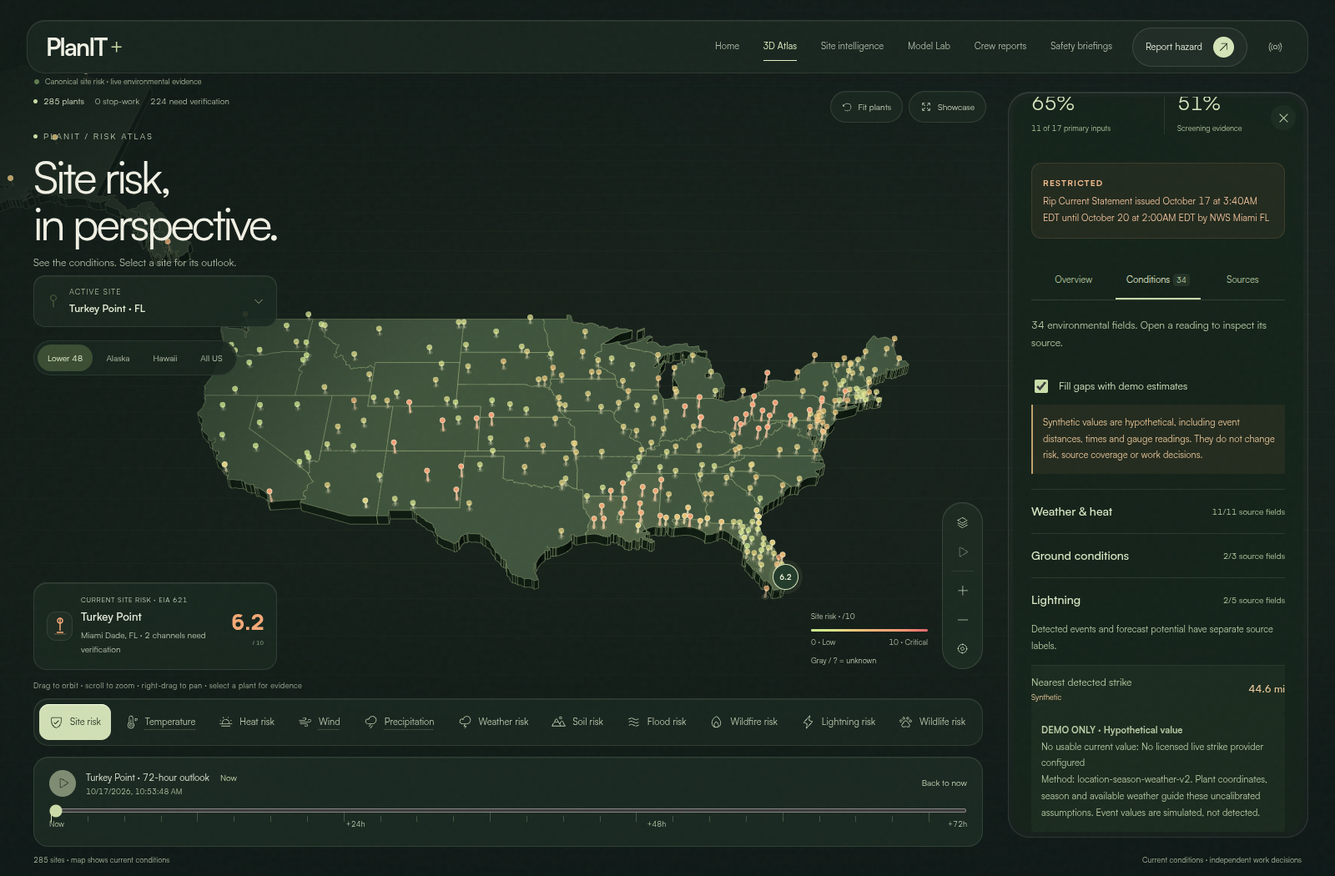
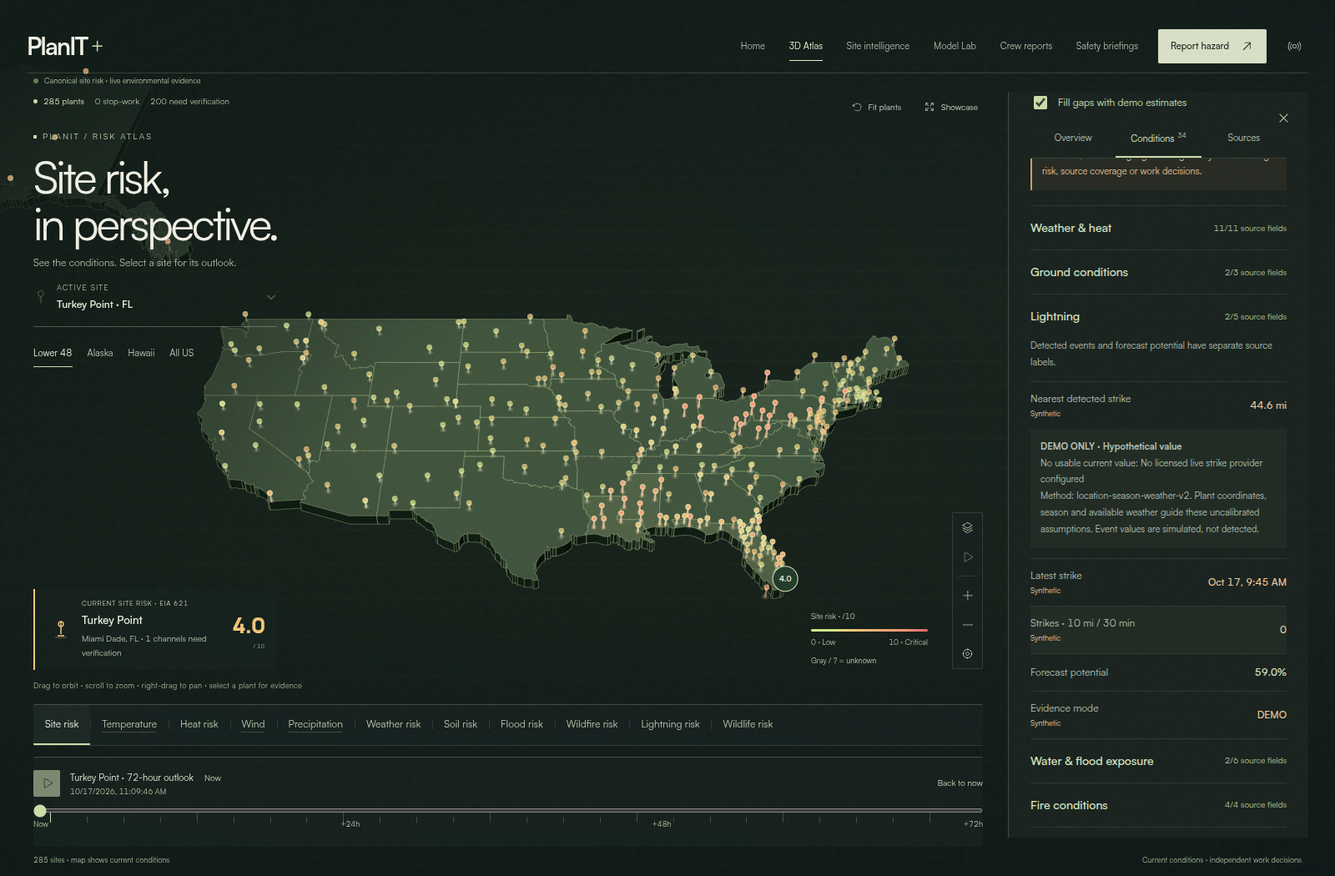
Refine atlas controls with editorial typography and straight edges

diff --git a/src/styles/weather-atlas.css b/src/styles/weather-atlas.css
@@ -1,15 +1,15 @@
 /* Full-bleed atlas. All operational values still come from the backend frame. */
 .app-shell.view-atlas { height: 100dvh; min-height: 100dvh; max-width: none; overflow: hidden; background: #101a16; color: #e9edde; }
 .view-atlas .main-shell, .view-atlas main, .view-atlas .atlas-workspace { position: absolute; inset: 0; height: 100%; width: 100%; padding: 0; margin: 0; overflow: hidden; }
-.app-shell.view-atlas .site-header { position: fixed; top: 24px; left: 32px; right: 32px; height: 64px; margin: 0; padding: 0 22px; gap: 24px; border: 1px solid #e4efd91a; border-radius: 22px; background: #18251fe8; backdrop-filter: blur(18px); box-shadow: inset 0 1px #f4ffe911, 0 12px 44px #0c181319; }
+.app-shell.view-atlas .site-header { position: fixed; top: 24px; left: 32px; right: 32px; height: 64px; margin: 0; padding: 0; gap: 24px; border: 0; border-radius: 2px; background: transparent; backdrop-filter: none; box-shadow: none; border-bottom: 1px solid #d9e3cd33; }
 .view-atlas .site-wordmark { color: #eff1e5; font-size: 29px; letter-spacing: -1.8px; }
 .view-atlas .wordmark-cross { color: #c8d9a5; }
 .view-atlas .site-navigation a { color: #b1bba8; font-size: 11px; }
 .view-atlas .site-navigation a:is(:hover,[aria-current="page"]) { color: #e5f2c5; }
-.view-atlas .header-report { color: #eaf0df; background: #ffffff09; border: 1px solid #e2edd624; padding: 10px 15px; border-radius: 30px; font-size: 11px; }
-.view-atlas .header-report > svg { border-radius: 50%; padding: 4px; width: 25px; height: 25px; background: #d4e4b8; color: #273320; stroke-width: 1.4; }
+.view-atlas .header-report { color: #19221b; background: #d8dfc6; border: 0; padding: 12px 15px; border-radius: 2px; font-size: 11px; font-weight: 500; }
+.view-atlas .header-report > svg { border-radius: 2px; padding: 0; width: 17px; height: 17px; background: transparent; color: currentColor; stroke-width: 1.4; }
 .view-atlas .demo-control, .view-atlas .menu-control { color: #c5d0ba; }
-.view-atlas .site-context { position: absolute; z-index: 9; top: 330px; left: 40px; width: 292px; height: 62px; padding: 0 14px; margin: 0; background: #19281fe8; border: 1px solid #e3edd51a; border-radius: 14px; box-shadow: inset 0 1px #f2ffe610; }
+.view-atlas .site-context { position: absolute; z-index: 9; top: 330px; left: 40px; width: 292px; height: 62px; padding: 0 0 10px; margin: 0; background: transparent; border: 0; border-radius: 2px; box-shadow: none; border-bottom: 1px solid #d9e3cd55; }
 .view-atlas .site-selector { width: 100%; gap: 10px; }
 .view-atlas .site-selector > div { min-width: 0; flex: 1; }
 .view-atlas .site-selector > div > span { color: #a8b69b; font-size: 9px; letter-spacing: 1.2px; }
@@ -29,51 +29,51 @@
 .weather-atlas .scene-heading :is(h1,h4) { font: 400 clamp(38px,3.5vw,54px)/1.04 "Satoshi", sans-serif; max-width: 390px; letter-spacing: -.06em; color: #f0f0e4; margin: 13px 0 10px; }
 .weather-atlas .scene-heading p { color: #aebba5; font-size: 12px; max-width: 320px; }
 .weather-atlas .scene-top-actions { top: 109px; right: calc(var(--inspector-width) + 58px); gap: 7px; }
-.weather-atlas .scene-top-actions button { display: flex; align-items: center; gap: 7px; border-radius: 30px; padding: 10px 13px; color: #cbd6be; background: #19271fe0; border: 1px solid #d4e3c420; min-height: 38px; font-size: 10px; box-shadow: inset 0 1px #e8fbd40a; }
+.weather-atlas .scene-top-actions button { display: flex; align-items: center; gap: 7px; border-radius: 2px; padding: 10px; color: #d1d8ca; background: transparent; border: 0; min-height: 38px; font-size: 10px; box-shadow: none; }
 .weather-atlas button, .view-atlas .site-header button { transition: background-color 280ms cubic-bezier(.22,1,.36,1), color 280ms cubic-bezier(.22,1,.36,1), transform 350ms cubic-bezier(.22,1,.36,1); }
 .weather-atlas button:active, .view-atlas .site-header button:active { transform: scale(.97); }
 .weather-atlas button:focus-visible, .weather-atlas input:focus-visible, .weather-atlas summary:focus-visible, .view-atlas .site-header :focus-visible, .view-atlas .site-selector select:focus-visible { outline: 2px solid #d3e7ad; outline-offset: 4px; }
-.weather-atlas .scene-top-actions button:hover { background: #32422b; color: #f1f5e6; }
+.weather-atlas .scene-top-actions button:hover { background: #d9e3cd0d; color: #f1f5e6; }
 .weather-atlas .scene-bottom { display: none; }
-.atlas-layer-bar { position: absolute; z-index: 6; left: var(--map-gap); right: calc(var(--inspector-width) + 62px); bottom: 156px; display: flex; gap: 4px; padding: 6px; border: 1px solid #d9e9c91c; background: #18261fea; border-radius: 18px; box-shadow: inset 0 1px #f3ffe610, 0 10px 44px #0b171312; overflow-x: auto; scrollbar-width: none; }
+.atlas-layer-bar { position: absolute; z-index: 6; left: var(--map-gap); right: calc(var(--inspector-width) + 62px); bottom: 156px; display: flex; gap: 0; padding: 0; border: 0; background: #15201df2; border-radius: 2px; box-shadow: none; overflow-x: auto; scrollbar-width: none; border-top: 1px solid #d9e3cd40; border-bottom: 1px solid #d9e3cd26; }
 .atlas-layer-bar::-webkit-scrollbar { display: none; }
-.atlas-layer-bar button { display: flex; justify-content: center; align-items: center; gap: 8px; flex: 0 0 auto; background: transparent; color: #bac7ac; white-space: nowrap; padding: 12px; min-height: 43px; border-radius: 12px; font-size: 11px; }
-.atlas-layer-bar button[aria-pressed="true"] { background: #d1dfb5; color: #24311f; box-shadow: inset 0 1px #f5ffe7; }
-.atlas-layer-bar button:hover:not([aria-pressed="true"]) { background: #31412b; color: #edf4e0; }
+.atlas-layer-bar button { display: flex; justify-content: center; align-items: center; gap: 8px; flex: 0 0 auto; background: transparent; color: #bac7ac; white-space: nowrap; padding: 15px 14px; min-height: 43px; border-radius: 0; font-size: 12px; border-bottom: 2px solid transparent; }
+.atlas-layer-bar button[aria-pressed="true"] { background: #d9e3cd09; color: #eef1e5; box-shadow: none; border-bottom-color: #cbdca8; }
+.atlas-layer-bar button:hover:not([aria-pressed="true"]) { background: #d9e3cd09; color: #eef1e5; }
 .atlas-layer-bar button[data-kind="measurement"] span { text-decoration: underline dotted #bccca466; text-underline-offset: 5px; }
-.atlas-regions { position: absolute; z-index: 5; left: var(--map-gap); top: 408px; display: flex; gap: 4px; padding: 4px; border: 1px solid #e3edd515; border-radius: 30px; background: #17261dda; }
-.atlas-regions button { background: transparent; color: #b7c4aa; padding: 8px 12px; min-height: 32px; font-size: 10px; border-radius: 30px; }
-.atlas-regions button[aria-pressed="true"] { color: #e7f2ce; background: #3b4d32; }
+.atlas-regions { position: absolute; z-index: 5; left: var(--map-gap); top: 408px; display: flex; gap: 18px; padding: 0; border: 0; border-radius: 2px; background: transparent; }
+.atlas-regions button { background: transparent; color: #bac3b6; padding: 8px 0; min-height: 32px; font-size: 11px; border-radius: 0; border-bottom: 1px solid transparent; }
+.atlas-regions button[aria-pressed="true"] { color: #eef1e5; background: transparent; border-color: #cbdca8; }
 .atlas-network-status { position: absolute; left: var(--map-gap); top: 115px; z-index: 5; display: flex; align-items: center; gap: 13px; color: #afbea4; font-size: 10px; }
 .atlas-network-status span { white-space: nowrap; }
 .atlas-network-status span:first-child { display: flex; align-items: center; gap: 7px; color: #d5e3c2; }
-.atlas-network-status i { width: 5px; height: 5px; border-radius: 50%; background: #c9dda5; animation: atlas-status 4s cubic-bezier(.22,1,.36,1) infinite; }
-.weather-atlas .scene-controls { right: calc(var(--inspector-width) + 62px); bottom: 248px; padding: 6px; border-radius: 24px; border: 1px solid #e4efdb21; background: #1b2a21eb; box-shadow: inset 0 1px #f5ffed0d; }
-.weather-atlas .scene-controls button { width: 35px; height: 35px; border-radius: 50%; color: #c2d0b3; }
+.atlas-network-status i { border-radius: 50%; width: 5px; height: 5px; background: #c9dda5; animation: atlas-status 4s cubic-bezier(.22,1,.36,1) infinite; }
+.weather-atlas .scene-controls { right: calc(var(--inspector-width) + 62px); bottom: 248px; padding: 0; border-radius: 2px; border: 1px solid #d9e3cd26; background: #15201df2; box-shadow: none; }
+.weather-atlas .scene-controls button { width: 35px; height: 35px; border-radius: 0; color: #c2d0b3; }
 .weather-atlas .scene-controls button:hover, .weather-atlas .scene-controls button[aria-pressed="true"] { background: #38492e; color: #edfad7; }
 .weather-atlas .scene-controls > span { background: #d8e9c61a; margin: 5px 4px; }
-.weather-atlas .scene-site-card { left: var(--map-gap); bottom: 247px; width: 292px; border-radius: 16px; border: 1px solid #e2edd51c; background: #19281fd9; padding: 15px; box-shadow: inset 0 1px #f5ffe714; cursor: pointer; pointer-events: auto; backdrop-filter: none; }
+.weather-atlas .scene-site-card { left: var(--map-gap); bottom: 247px; width: 292px; border-radius: 2px; border: 0; background: #15201de0; padding: 12px 15px; box-shadow: none; cursor: pointer; pointer-events: auto; backdrop-filter: none; border-left: 2px solid var(--active-risk); }
 .weather-atlas .scene-site-card:hover { background: #24352a; }
-.weather-atlas .scene-site-icon { border: 1px solid #e8f1dc18; background: #d4e6b508; border-radius: 11px; }
+.weather-atlas .scene-site-icon { border: 0; background: transparent; border-radius: 2px; }
 .weather-atlas .scene-site-card strong { font-size: 13px; color: #e8eedc; }
 .weather-atlas .scene-site-card p { font-size: 10px; color: #b6c2ac; line-height: 1.7; max-height: none; }
 .weather-atlas .scene-site-card > div > span { font-size: 8px; letter-spacing: .7px; color: #c3d0b6; }
 .weather-atlas .scene-site-score { color: var(--active-risk); font-size: 27px; }
 .weather-atlas .scene-disclosure { bottom: 222px; left: var(--map-gap); font: 9px "Satoshi", sans-serif; color: #a2b198; }
-.weather-atlas .scene-warning { top: 400px; left: var(--map-gap); right: calc(var(--inspector-width) + 62px); z-index: 8; color: #eed7b1; background: #303b27; border: 0; border-radius: 10px; font-size: 11px; }
-.weather-atlas .site-beacon { width: 7px; height: 7px; border: 1px solid #edf6d699; color: #ebf5d8; background: var(--beacon-color); font-size: 0; box-shadow: none; opacity: .95; }
+.weather-atlas .scene-warning { top: 400px; left: var(--map-gap); right: calc(var(--inspector-width) + 62px); z-index: 8; color: #eed7b1; background: #303b27; border: 0; border-radius: 2px; font-size: 11px; }
+.weather-atlas .site-beacon { border-radius: 50%; width: 7px; height: 7px; border: 1px solid #edf6d699; color: #ebf5d8; background: var(--beacon-color); font-size: 0; box-shadow: none; opacity: .95; }
 .weather-atlas .site-beacon::before { content: ""; position: absolute; inset: -8px; }
 .weather-atlas .site-beacon.is-unknown { background: #5a6c62; border: 1px dashed #b4c2b8; opacity: .7; }
 .weather-atlas .site-beacon.has-low-confidence { border-style: dashed; opacity: .75; }
-.weather-atlas .site-beacon:is(.is-selected,:hover,:focus-visible) { width: 31px; height: 31px; border: 1px solid #d8e6bc; font-size: 9px; background: #223b2a; color: #f0f5df; box-shadow: 0 0 0 5px #d4e8aa12; opacity: 1; }
+.weather-atlas .site-beacon:is(.is-selected,:hover,:focus-visible) { width: 31px; height: 31px; border: 1px solid #d8e6bc; font-size: 9px; background: #223b2a; color: #f0f5df; box-shadow: none; opacity: 1; }
 .atlas-scale { position: absolute; z-index: 5; right: calc(var(--inspector-width) + 128px); bottom: 251px; width: 140px; pointer-events: none; }
 .atlas-scale > span, .atlas-scale small { font-size: 9px; color: #bac7ac; }
-.atlas-scale i { display: block; height: 3px; border-radius: 4px; margin: 8px 0 7px; background: linear-gradient(90deg,#c9ee8d,#dce18b,#f0c477,#f4ab76,#ff9676,#df656c); }
+.atlas-scale i { display: block; height: 3px; border-radius: 2px; margin: 8px 0 7px; background: linear-gradient(90deg,#c9ee8d,#dce18b,#f0c477,#f4ab76,#ff9676,#df656c); }
 .atlas-scale i[data-layer="temperature"] { background: linear-gradient(90deg,#739bb8,#a9c7bc,#e8d09b,#d98c68,#bd655c); }
 .atlas-scale > div { display: flex; justify-content: space-between; color: #b0bfa3; font-size: 9px; margin-bottom: 5px; }
-.atlas-timeline, .atlas-timeline-prompt { position: absolute; z-index: 6; left: var(--map-gap); right: calc(var(--inspector-width) + 62px); bottom: 35px; height: 108px; padding: 14px 18px 12px; border: 1px solid #e0efd01e; border-radius: 18px; background: #1a2921ee; box-shadow: inset 0 1px #f1ffe20d, 0 10px 36px #0d19140f; }
+.atlas-timeline, .atlas-timeline-prompt { position: absolute; z-index: 6; left: var(--map-gap); right: calc(var(--inspector-width) + 62px); bottom: 35px; height: 108px; padding: 14px 0 12px; border: 0; border-radius: 2px; background: #15201de8; box-shadow: none; border-top: 1px solid #d9e3cd40; }
 .atlas-time-heading { display: flex; align-items: center; gap: 12px; }
-.atlas-time-heading > button:first-child { display: grid; place-items: center; width: 32px; height: 32px; flex-shrink: 0; border-radius: 50%; background: #d1dfb5; color: #273620; }
+.atlas-time-heading > button:first-child { display: grid; place-items: center; width: 32px; height: 32px; flex-shrink: 0; border-radius: 2px; background: #d1dfb5; color: #273620; }
 .atlas-time-heading > div { flex: 1; min-width: 0; }
 .atlas-time-heading span { color: #e5ecd8; font-size: 11px; }
 .atlas-time-heading b { font-size: 10px; color: #cadbad; margin-left: 10px; font-weight: 400; }
@@ -86,64 +86,64 @@
 .atlas-timeline input { position: relative; display: block; width: 100%; height: 5px; margin: 14px 0 8px; accent-color: #cbdca8; cursor: pointer; }
 .atlas-time-ticks { display: flex; justify-content: space-between; color: #b5c4a6; font-size: 9px; }
 .atlas-coverage { position: absolute; z-index: 5; pointer-events: none; bottom: 13px; left: var(--map-gap); right: 40px; display: flex; justify-content: space-between; color: #a6b79b; font-size: 9px; gap: 16px; }
-/* Nested shell provides a physical edge; only the inner evidence surface scrolls. */
-.atlas-inspector-shell { position: absolute; z-index: 8; right: 32px; top: 110px; bottom: 46px; width: var(--inspector-width); padding: 5px; border: 1px solid #e5efd91c; border-radius: 26px; background: #e1efc908; box-shadow: inset 0 1px #f0ffdc18; transition: transform 600ms cubic-bezier(.22,1,.36,1), opacity 450ms cubic-bezier(.22,1,.36,1); }
+/* A solid evidence sheet stays legible above the scene; only its contents scroll. */
+.atlas-inspector-shell { position: absolute; z-index: 8; right: 32px; top: 110px; bottom: 46px; width: var(--inspector-width); padding: 0; border: 0; border-radius: 0; background: #19221e; box-shadow: none; transition: transform 600ms cubic-bezier(.22,1,.36,1), opacity 450ms cubic-bezier(.22,1,.36,1); border-left: 1px solid #d9e3cd33; }
 .atlas-inspector-shell[data-open="false"] { transform: translateX(calc(100% + 50px)); opacity: 0; pointer-events: none; }
-.atlas-inspector { position: relative; height: 100%; padding: 24px 22px; overflow: auto; overscroll-behavior: contain; scrollbar-width: thin; scrollbar-color: #53654b transparent; border-radius: 21px; background: #142219f5; color: #dce6cd; scroll-padding-block: 72px; }
+.atlas-inspector { position: relative; height: 100%; padding: 24px 26px; overflow: auto; overscroll-behavior: contain; scrollbar-width: thin; scrollbar-color: #53654b transparent; border-radius: 0; background: #19221e; color: #dce6cd; scroll-padding-block: 72px; }
 .atlas-inspector button, .atlas-inspector summary, .atlas-inspector input { scroll-margin-block: 72px; }
-.atlas-inspector-close { z-index: 5; position: absolute; top: 15px; right: 14px; width: 30px; height: 30px; display: grid; place-items: center; border-radius: 50%; background: #e9f5d80a; color: #b6c9a5; }
+.atlas-inspector-close { z-index: 5; position: absolute; top: 15px; right: 14px; width: 32px; height: 32px; display: grid; place-items: center; border-radius: 0; background: #19221e; color: #b6c9a5; }
 .atlas-inspector-close:hover { background: #d4e4b31a; }
-.atlas-inspector-open { position: absolute; top: 110px; right: 32px; z-index: 8; display: flex; align-items: center; gap: 10px; background: #22341fea; border: 1px solid #d2e5b32b; border-radius: 30px; padding: 13px 18px; font-size: 12px; color: #e3efce; }
+.atlas-inspector-open { position: absolute; top: 110px; right: 32px; z-index: 8; display: flex; align-items: center; gap: 10px; background: #19221e; border: 0; border-radius: 0; padding: 13px 18px; font-size: 12px; color: #e3efce; border-bottom: 1px solid #cbdca8; }
 .atlas-inspector-open[hidden] { display: none; }
 .atlas-inspector-top { display: flex; justify-content: space-between; align-items: center; gap: 10px; padding-right: 29px; }
 .atlas-inspector-top > span { color: #a8bb96; font-size: 9px; letter-spacing: 1.2px; }
 .atlas-inspector-top > button { display: flex; align-items: center; gap: 6px; min-height: 26px; background: transparent; color: #c4d4b0; font-size: 10px; }
 .atlas-search { position: relative; margin: 23px 0; }
-.atlas-search > svg { position: absolute; top: 33px; left: 12px; color: #c6d7b3; pointer-events: none; }
-.atlas-search input { width: 100%; padding: 13px 10px 13px 36px; color: #e6efda; background: #b0ca8c09; border: 1px solid #deefc71c; border-radius: 13px; font: 11px "Satoshi", sans-serif; }
+.atlas-search > svg { position: absolute; top: 33px; left: 0; color: #c6d7b3; pointer-events: none; }
+.atlas-search input { width: 100%; padding: 13px 0 13px 25px; color: #e6efda; background: transparent; border: 0; border-radius: 0; font: 11px "Satoshi", sans-serif; border-bottom: 1px solid #d9e3cd40; }
 .atlas-search input::placeholder { color: #a9bb99; }
 .atlas-search .sr-only { position: absolute; width: 1px; height: 1px; padding: 0; margin: -1px; overflow: hidden; clip: rect(0,0,0,0); white-space: nowrap; border: 0; }
-.atlas-search-results { position: absolute; left: 0; right: 0; top: calc(100% + 4px); z-index: 10; padding: 5px; background: #263b20; border: 1px solid #ccdfb333; border-radius: 12px; box-shadow: 0 12px 32px #10201026; }
-.atlas-search-results button { display: block; width: 100%; text-align: left; padding: 12px; font-size: 12px; background: transparent; color: #e4edda; border-radius: 8px; }
+.atlas-search-results { position: absolute; left: 0; right: 0; top: calc(100% + 4px); z-index: 10; padding: 5px; background: #26312a; border: 1px solid #d9e3cd33; border-radius: 2px; box-shadow: none; }
+.atlas-search-results button { display: block; width: 100%; text-align: left; padding: 12px; font-size: 12px; background: transparent; color: #e4edda; border-radius: 2px; }
 .atlas-search-results button:hover { background: #465b33; }
 .atlas-site-id { font-size: 9px; letter-spacing: 1.3px; color: #adbf9a; margin-bottom: 9px; }
 .atlas-inspector .atlas-location-title { font: 400 29px/1.08 "Satoshi", sans-serif; letter-spacing: -1.1px; color: #edf1e2; margin: 0; text-wrap: pretty; }
-.atlas-coordinate { font-size: 10px; color: #b4c5a2; line-height: 1.6; margin-top: 9px; }
+.atlas-coordinate { font-size: 10px; color: #b5bfb3; line-height: 1.6; margin-top: 9px; }
 .atlas-risk-hero { display: flex; justify-content: space-between; align-items: center; margin: 24px 0 16px; }
-.atlas-risk-hero > div > span { font-size: 10px; color: #b0c19e; }
+.atlas-risk-hero > div > span { font-size: 10px; color: #b5bfb3; }
 .atlas-risk-hero strong { display: block; font: 400 58px/1.16 "Satoshi", sans-serif; letter-spacing: -3px; color: #e5efcf; margin-top: 5px; }
 .atlas-risk-hero strong small { font-size: 17px; font-weight: 400; letter-spacing: -.3px; color: #abbe97; }
-.atlas-risk-mark { width: 47px; height: 47px; display: grid; place-items: center; border-radius: 50%; border: 1px solid; outline: 1px solid #deedc51c; outline-offset: 7px; margin-right: 8px; }
-.atlas-risk-mark span { width: 9px; height: 9px; border-radius: 50%; }
+.atlas-risk-mark { width: 7px; height: 54px; display: grid; place-items: center; border-radius: 0; border: 0; outline: 0; outline-offset: 7px; margin-right: 0; background: currentColor; }
+.atlas-risk-mark span { width: 100%; height: 100%; border-radius: 0; }
 .atlas-layer-reading { display: flex; justify-content: space-between; align-items: center; gap: 12px; padding: 12px 0; border-top: 1px solid #dceac21a; }
 .atlas-layer-reading > span, .atlas-layer-reading p { font-size: 10px; color: #b1c29c; }
 .atlas-layer-reading strong { font-size: 17px; font-weight: 400; color: #e0ecca; white-space: nowrap; }
 .atlas-layer-reading small { margin-left: 3px; font-size: 10px; color: #b8c8a3; }
 .atlas-metrics { display: grid; grid-template-columns: 1fr 1fr; gap: 14px; padding: 17px 0 20px; border-top: 1px solid #deedc51c; }
 .atlas-metrics > div + div { border-left: 1px solid #deedc51c; padding-left: 15px; }
-.atlas-metrics dt { font-size: 10px; color: #b4c6a0; }
+.atlas-metrics dt { font-size: 10px; color: #b5bfb3; }
 .atlas-metrics dd { font-size: 24px; letter-spacing: -.7px; color: #dceac2; margin: 4px 0; }
-.atlas-metrics small { font-size: 9px; line-height: 1.6; color: #aec19b; }
-.atlas-detail-views { position: sticky; top: 0; z-index: 4; display: flex; padding: 10px 0 0; background: #142219; border-bottom: 1px solid #deedc525; }
-.atlas-detail-views button { flex: 1; min-height: 45px; font-size: 11px; background: transparent; color: #b6c8a1; border-bottom: 2px solid transparent; }
+.atlas-metrics small { font-size: 9px; line-height: 1.6; color: #aab6aa; }
+.atlas-detail-views { position: sticky; top: 0; z-index: 4; display: flex; padding: 10px 0 0; background: #19221e; border-bottom: 1px solid #deedc525; }
+.atlas-detail-views button { flex: 1; min-height: 45px; font-size: 11px; background: transparent; color: #bfc8bc; border-bottom: 2px solid transparent; }
 .atlas-detail-views button[aria-pressed="true"] { border-color: #cadaab; color: #e4efcf; }
 .atlas-detail-views button:hover { color: #fffced; background: #d6e9b709; }
-.atlas-detail-views small { font-size: 9px; margin-left: 4px; padding: 2px 4px; border-radius: 4px; color: #c3d5ab; background: #bfd5a317; }
+.atlas-detail-views small { font-size: 8px; margin-left: 4px; padding: 0; border-radius: 2px; color: #c3d5ab; background: transparent; vertical-align: super; }
 .atlas-detail-content[hidden] { display: none; }
 .atlas-drivers { padding: 19px 0 17px; }
 .atlas-section-label { font-size: 9px; letter-spacing: .9px; color: #acbe98; }
 .atlas-drivers strong { font-size: 21px; font-weight: 400; color: #e2edcf; letter-spacing: -.6px; }
 .atlas-drivers p + p { font-size: 11px; line-height: 1.8; color: #afc199; margin-top: 6px; }
 .atlas-channels details { border-top: 1px solid #dceac21c; }
-.atlas-channels summary { display: grid; grid-template-columns: 65px minmax(24px,1fr) 48px 12px; gap: 10px; align-items: center; min-height: 44px; list-style: none; cursor: pointer; font-size: 11px; color: #c8d5b6; }
+.atlas-channels summary { display: grid; grid-template-columns: 65px minmax(24px,1fr) 48px 12px; gap: 10px; align-items: center; min-height: 44px; list-style: none; cursor: pointer; font-size: 11px; color: #d6ddce; }
 .atlas-channels summary::-webkit-details-marker { display: none; }
 .atlas-channels summary strong { text-align: right; font-weight: 400; font-size: 11px; }
 .atlas-channels details[open] summary > svg { transform: rotate(90deg); }
-.atlas-channel-meter { display: block; height: 3px; border-radius: 3px; background: #d3e4b51a; overflow: hidden; }
-.atlas-channel-meter i { display: block; height: 100%; border-radius: 3px; }
+.atlas-channel-meter { display: block; height: 3px; border-radius: 2px; background: #d3e4b51a; overflow: hidden; }
+.atlas-channel-meter i { display: block; height: 100%; border-radius: 2px; }
 .atlas-channel-evidence { padding-bottom: 12px; }
-.atlas-channel-evidence p { font-size: 11px; line-height: 1.8; color: #b4c89f; overflow-wrap: anywhere; }
-.atlas-overrides { padding: 13px; margin: 4px 0 18px; border: 1px solid #dca77c25; background: #b56f4517; color: #f0c29c; border-radius: 12px; }
+.atlas-channel-evidence p { font-size: 11px; line-height: 1.8; color: #b6c1b5; overflow-wrap: anywhere; }
+.atlas-overrides { padding: 10px 13px; margin: 4px 0 18px; border: 0; background: #b56f450d; color: #f0c29c; border-radius: 2px; border-left: 2px solid #dca77c; }
 .atlas-overrides strong { font-size: 10px; letter-spacing: 1.2px; color: #f3bb8d; }
 .atlas-overrides p { font-size: 11px; line-height: 1.8; margin-top: 5px; }
 .atlas-overrides time { font-size: 17px; font-weight: 500; }
@@ -151,10 +151,10 @@
 .atlas-work-decisions h3, .atlas-section-heading h3 { font-size: 13px; font-weight: 500; color: #d7e5c1; }
 .atlas-tasks { margin-top: 9px; }
 .atlas-tasks > div { display: flex; align-items: center; justify-content: space-between; gap: 8px; border-bottom: 1px solid #d8e8be1a; min-height: 44px; font-size: 11px; color: #bbcda7; }
-.atlas-tasks dd { font-size: 8px; padding: 5px 7px; border-radius: 5px; margin: 0; background: #d1e3b217; color: #d6e1c5; }
-.atlas-tasks dd[data-state="HOLD"] { color: #f5b69a; background: #dc775723; }
-.atlas-tasks dd[data-state="RESTRICTED"] { color: #f3d19a; background: #cc9c4923; }
-.atlas-tasks dd[data-state="AVAILABLE"] { color: #d3e8ad; background: #a3be7923; }
+.atlas-tasks dd { font-size: 9px; padding: 5px 0; border-radius: 2px; margin: 0; background: transparent; color: #d6e1c5; }
+.atlas-tasks dd[data-state="HOLD"] { color: #f5b69a; background: transparent; }
+.atlas-tasks dd[data-state="RESTRICTED"] { color: #f3d19a; background: transparent; }
+.atlas-tasks dd[data-state="AVAILABLE"] { color: #d3e8ad; background: transparent; }
 .atlas-section-heading { display: flex; align-items: center; justify-content: space-between; color: #bbcea3; padding-bottom: 9px; }
 .atlas-priorities button { width: 100%; display: flex; align-items: center; justify-content: space-between; gap: 12px; text-align: left; border-top: 1px solid #dcecc21c; padding: 12px 0; background: transparent; color: #d6e5be; font-size: 11px; }
 .atlas-priorities button:hover { color: #f3f9e8; background: #d0e7b30a; }
@@ -164,11 +164,11 @@
 .atlas-error, .atlas-limitation { font-size: 11px; line-height: 1.8; margin-top: 12px; color: #ebc28d; }
 /* Scoped evidence colors preserve the paper treatment in Site intelligence. */
 .weather-atlas :is(.observation-details,.source-details) { color: #cfddba; }
-.weather-atlas :is(.observation-intro,.observation-note,.observation-provenance p,.source-details dt,.source-models > p,.source-boundary) { color: #b6c9a3; }
+.weather-atlas :is(.observation-intro,.observation-note,.observation-provenance p,.source-details dt,.source-models > p,.source-boundary) { color: #b6c1b5; }
 .weather-atlas :is(.observation-group,.observation-field,.source-provider,.source-models,.source-site,.source-boundary) { border-color: #deedc51c; }
 .weather-atlas .observation-group > summary, .weather-atlas .source-details h3 { color: #dae9c5; }
 .weather-atlas .observation-group > summary > small, .weather-atlas .source-provider summary small { color: #b4c99f; }
-.weather-atlas .observation-field > summary > span { color: #b8cca3; }
+.weather-atlas .observation-field > summary > span { color: #b6c1b5; }
 .weather-atlas .observation-field > summary > strong { color: #e1eecb; }
 .weather-atlas .observation-field > summary:hover, .weather-atlas .observation-provenance { background: #c5e4a50a; }
 .weather-atlas .observation-field[data-known="false"] > summary > strong { color: #b8c6ac; }
@@ -184,10 +184,10 @@
   .weather-atlas.command-map { --map-gap: 28px; --inspector-width: 330px; }
   .view-atlas .site-header { left: 24px; right: 24px; padding-inline: 18px; }
   .view-atlas .site-navigation { gap: 16px; }
-  .view-atlas .site-context { left: 28px; width: 260px; }
+  .view-atlas .site-context { left: 28px; width: 260px; background: transparent; border: 0; border-bottom: 1px solid #d9e3cd55; padding: 0 0 10px; }
   .weather-atlas .scene-heading { width: 320px; }
   .weather-atlas .scene-heading :is(h1,h4) { font-size: 43px; }
-  .atlas-inspector-shell { right: 24px; }
+  .atlas-inspector-shell { right: 24px; padding: 0; border: 0; border-left: 1px solid #d9e3cd33; background: #19221e; border-radius: 0; }
   .weather-atlas .scene-top-actions button > span { display: none; }
   .atlas-network-status { gap: 10px; }
 }
@@ -195,19 +195,19 @@
   .view-atlas .site-navigation { display: none; }
   .view-atlas .menu-control { display: grid; }
   .view-atlas .site-header-actions { margin-left: auto; }
-  .view-atlas .site-navigation.is-open { display: flex; position: fixed; flex-direction: column; inset: 76px 0 auto; padding: 24px; background: #19291ff7; border: 1px solid #d8ecc522; border-radius: 20px; gap: 0; }
+  .view-atlas .site-navigation.is-open { display: flex; position: fixed; flex-direction: column; inset: 76px 0 auto; padding: 24px; background: #19291ff7; border: 1px solid #d8ecc522; border-radius: 2px; gap: 0; }
   .view-atlas .site-navigation.is-open a { font-size: 23px; min-height: 54px; border-bottom: 1px solid #d8ecc51a; }
   .atlas-network-status span:last-child { display: none; }
-  .atlas-inspector-shell { width: 310px; }
-  .weather-atlas .scene-site-card { display: none; }
+  .atlas-inspector-shell { width: 310px; padding: 0; border: 0; border-left: 1px solid #d9e3cd33; background: #19221e; border-radius: 0; }
+  .weather-atlas .scene-site-card { display: none; background: #15201de0; border: 0; border-left: 2px solid var(--active-risk); padding: 12px 15px; }
   .atlas-scale { right: calc(var(--inspector-width) + 110px); }
 }
 @media (max-width: 760px) {
   .app-shell.view-atlas { height: 100dvh; min-height: 100dvh; overflow: hidden; }
-  .app-shell.view-atlas .site-header { top: 12px; left: 12px; right: 12px; height: 56px; padding: 0 15px; border-radius: 18px; gap: 12px; }
+  .app-shell.view-atlas .site-header { top: 12px; left: 12px; right: 12px; height: 56px; padding: 0; border-radius: 2px; gap: 12px; border: 0; border-bottom: 1px solid #d9e3cd33; background: transparent; backdrop-filter: none; }
   .view-atlas .site-wordmark { font-size: 27px; }
-  .view-atlas .header-report { padding: 6px 10px; font-size: 10px; min-height: 35px; }
-  .view-atlas .header-report > svg { display: none; }
+  .view-atlas .header-report { padding: 12px 15px; font-size: 10px; min-height: 35px; background: #d8dfc6; color: #19221b; border: 0; border-radius: 2px; font-weight: 500; }
+  .view-atlas .header-report > svg { display: none; background: transparent; color: currentColor; padding: 0; width: 17px; height: 17px; }
   .view-atlas .site-header-actions { gap: 11px; }
   .view-atlas .site-navigation.is-open { inset: 64px 0 auto; }
   .weather-atlas.command-map { --map-gap: 18px; --inspector-width: 0px; }
@@ -216,26 +216,26 @@
   .weather-atlas .scene-heading p { display: none; }
   .weather-atlas .scene-mode { font-size: 8px; letter-spacing: 1.4px; }
   .atlas-network-status { top: 86px; gap: 12px; font-size: 9px; }
-  .view-atlas .site-context { top: 214px; left: 18px; width: 235px; height: 52px; padding: 0 12px; border-radius: 13px; }
+  .view-atlas .site-context { top: 214px; left: 18px; width: 235px; height: 52px; padding: 0 0 10px; border-radius: 2px; background: transparent; border: 0; border-bottom: 1px solid #d9e3cd55; }
   .view-atlas .site-selector select { font-size: 11px; }
   .view-atlas .site-selector > div > span { font-size: 8px; }
-  .atlas-regions { top: 280px; left: 18px; }
-  .atlas-regions button { padding: 7px 10px; font-size: 9px; min-height: 30px; }
+  .atlas-regions { top: 280px; left: 18px; padding: 0; border: 0; background: transparent; gap: 18px; }
+  .atlas-regions button { padding: 8px 0; font-size: 11px; min-height: 30px; border-radius: 0; border-bottom: 1px solid transparent; }
   .weather-atlas .scene-top-actions { top: 83px; right: 15px; }
-  .weather-atlas .scene-top-actions button { padding: 8px; min-height: 32px; }
+  .weather-atlas .scene-top-actions button { padding: 10px; min-height: 32px; background: transparent; border: 0; color: #d1d8ca; }
   .weather-atlas .scene-top-actions button > span { display: none; }
-  .weather-atlas .scene-controls { right: 16px; bottom: 280px; padding: 4px; }
-  .weather-atlas .scene-controls button { width: 31px; height: 31px; }
-  .weather-atlas .scene-site-card { display: none; }
-  .atlas-inspector-open { top: auto; bottom: 219px; right: 15px; padding: 11px 15px; font-size: 11px; }
-  .atlas-inspector-shell { top: 80px; bottom: 215px; left: 12px; right: 12px; width: auto; border-radius: 22px; padding: 4px; }
-  .atlas-inspector { padding: 23px 19px; border-radius: 18px; }
+  .weather-atlas .scene-controls { right: 16px; bottom: 280px; padding: 0; border: 1px solid #d9e3cd26; background: #15201df2; }
+  .weather-atlas .scene-controls button { width: 31px; height: 31px; border-radius: 0; }
+  .weather-atlas .scene-site-card { display: none; background: #15201de0; border: 0; border-left: 2px solid var(--active-risk); padding: 12px 15px; }
+  .atlas-inspector-open { top: auto; bottom: 219px; right: 15px; padding: 11px 15px; font-size: 11px; background: #19221e; border: 0; border-bottom: 1px solid #cbdca8; border-radius: 0; }
+  .atlas-inspector-shell { top: 80px; bottom: 215px; left: 12px; right: 12px; width: auto; border-radius: 0; padding: 0; border: 0; border-left: 1px solid #d9e3cd33; background: #19221e; }
+  .atlas-inspector { padding: 24px 26px; border-radius: 0; background: #19221e; }
   .atlas-inspector .atlas-location-title { font-size: 29px; }
-  .atlas-detail-views { top: 0; }
+  .atlas-detail-views { top: 0; background: #19221e; }
   .atlas-risk-hero strong { font-size: 48px; }
-  .atlas-layer-bar { bottom: 145px; left: 14px; right: 14px; padding: 5px; border-radius: 16px; }
-  .atlas-layer-bar button { padding: 10px 12px; min-height: 40px; font-size: 10px; gap: 7px; }
-  .atlas-timeline, .atlas-timeline-prompt { bottom: 28px; left: 14px; right: 14px; height: 105px; border-radius: 16px; padding: 13px 14px; }
+  .atlas-layer-bar { bottom: 145px; left: 14px; right: 14px; padding: 0; border-radius: 2px; gap: 0; border: 0; border-top: 1px solid #d9e3cd40; border-bottom: 1px solid #d9e3cd26; background: #15201df2; }
+  .atlas-layer-bar button { padding: 15px 14px; min-height: 40px; font-size: 12px; gap: 7px; border-radius: 0; border-bottom: 2px solid transparent; }
+  .atlas-timeline, .atlas-timeline-prompt { bottom: 28px; left: 14px; right: 14px; height: 105px; border-radius: 2px; padding: 14px 0 12px; background: #15201de8; border: 0; border-top: 1px solid #d9e3cd40; }
   .atlas-time-heading span { font-size: 10px; }
   .atlas-time-heading strong { font-size: 9px; }
   .atlas-time-heading .atlas-now { font-size: 9px; }
@@ -271,31 +271,47 @@
 @media (min-width: 761px) and (max-height: 850px) {
   .weather-atlas .scene-heading { top: 144px; width: 340px; }
   .weather-atlas .scene-heading :is(h1,h4) { font-size: 42px; }
-  .view-atlas .site-context { top: 285px; }
+  .view-atlas .site-context { top: 285px; background: transparent; border: 0; border-bottom: 1px solid #d9e3cd55; padding: 0 0 10px; }
   .view-atlas .site-context .source-pill { top: -194px; }
-  .atlas-regions { top: 361px; }
+  .atlas-regions { top: 361px; padding: 0; border: 0; background: transparent; gap: 18px; }
   .weather-atlas .scene-site-card, .weather-atlas .scene-disclosure { display: none; }
 }
 @media (max-height: 600px) {
   .weather-atlas .scene-heading, .view-atlas .site-context, .atlas-network-status, .weather-atlas .scene-top-actions, .weather-atlas .scene-site-card, .atlas-scale, .weather-atlas .scene-disclosure { display: none; }
-  .atlas-regions { top: 100px; }
-  .atlas-inspector-shell { top: 90px; bottom: 190px; }
-  .atlas-inspector-open { top: 100px; bottom: auto; right: 20px; }
-  .atlas-layer-bar { left: 18px; right: 18px; bottom: 139px; }
-  .atlas-timeline, .atlas-timeline-prompt { left: 18px; right: 18px; bottom: 22px; }
-  .weather-atlas .scene-controls { bottom: 208px; right: 20px; }
+  .atlas-regions { top: 100px; padding: 0; border: 0; background: transparent; gap: 18px; }
+  .atlas-inspector-shell { top: 90px; bottom: 190px; padding: 0; border: 0; border-left: 1px solid #d9e3cd33; background: #19221e; border-radius: 0; }
+  .atlas-inspector-open { top: 100px; bottom: auto; right: 20px; background: #19221e; border: 0; border-bottom: 1px solid #cbdca8; border-radius: 0; }
+  .atlas-layer-bar { left: 18px; right: 18px; bottom: 139px; gap: 0; padding: 0; border: 0; border-top: 1px solid #d9e3cd40; border-bottom: 1px solid #d9e3cd26; background: #15201df2; }
+  .atlas-timeline, .atlas-timeline-prompt { left: 18px; right: 18px; bottom: 22px; background: #15201de8; border: 0; border-top: 1px solid #d9e3cd40; padding: 14px 0 12px; }
+  .weather-atlas .scene-controls { bottom: 208px; right: 20px; padding: 0; border: 1px solid #d9e3cd26; background: #15201df2; }
   .weather-atlas .scene-controls button:nth-child(-n+2), .weather-atlas .scene-controls > span { display: none; }
 }
-.weather-atlas .scene-controls { backdrop-filter: none; }
-@media (max-height: 600px) { .weather-atlas .scene-controls { flex-direction: row; bottom: 200px; } }
+.weather-atlas .scene-controls { backdrop-filter: none; padding: 0; border: 1px solid #d9e3cd26; background: #15201df2; }
+@media (max-height: 600px) { .weather-atlas .scene-controls { flex-direction: row; bottom: 200px; padding: 0; border: 1px solid #d9e3cd26; background: #15201df2; } }
 
 .atlas-layer-reading[data-layer="risk"] { display: none; }
 @media (max-width: 760px) { .atlas-search input, .view-atlas .site-selector select { font-size: 16px; } }
 
 .atlas-timeline-prompt { display: flex; align-items: center; gap: 17px; text-align: left; color: #d9e8bf; }
 .atlas-timeline-prompt > span { flex: 1; min-width: 0; }
-.atlas-timeline-prompt small { display: block; font-size: 10px; color: #b8caa3; margin-bottom: 7px; }
+.atlas-timeline-prompt small { display: block; font-size: 10px; color: #b5bfb3; margin-bottom: 7px; }
 .atlas-timeline-prompt strong { display: block; font-size: 20px; font-weight: 400; letter-spacing: -.5px; overflow: hidden; white-space: nowrap; text-overflow: ellipsis; }
-.atlas-timeline-prompt > i { display: grid; place-items: center; width: 38px; height: 38px; flex-shrink: 0; border-radius: 50%; background: #ccddb0; color: #26351e; }
-.atlas-timeline-prompt:hover { background: #2b3d28; }
+.atlas-timeline-prompt > i { display: grid; place-items: center; width: 38px; height: 38px; flex-shrink: 0; border-radius: 0; background: transparent; color: #d8dfc6; border: 1px solid #d9e3cd40; }
+.atlas-timeline-prompt:hover { background: #d9e3cd09; }
 @media (max-width: 760px) { .atlas-timeline-prompt { gap: 12px; } .atlas-timeline-prompt strong { font-size: 17px; } }
+
+/* Text-led controls: selection is a rule, not another rounded enclosure. */
+.atlas-layer-bar button > svg { display: none; }
+.atlas-layer-bar button { position: relative; }
+.atlas-layer-bar button + button::before { content: ""; position: absolute; left: 0; height: 12px; width: 1px; background: #d9e3cd20; }
+.atlas-regions button:hover { color: #eef1e5; }
+.weather-atlas .scene-mode > span { border-radius: 0; width: 4px; height: 4px; }
+.atlas-inspector :is(.observation-synthetic,.observation-provenance) { border-radius: 0; }
+.atlas-timeline-prompt > svg { display: none; }
+.atlas-timeline-prompt > i > svg { transition: transform 350ms cubic-bezier(.22,1,.36,1); }
+.atlas-timeline-prompt:hover > i > svg { transform: translate(2px,-2px); }
+@media (max-width: 760px) {
+  .atlas-timeline, .atlas-timeline-prompt { padding-inline: 4px; }
+  .atlas-regions { gap: 19px; }
+  .atlas-regions button { padding-inline: 0; }
+}

diff --git a/docs/immersive-atlas.md b/docs/immersive-atlas.md
@@ -4,7 +4,7 @@ This frontend iteration turns `/?view=atlas` into a viewport-filling map workspa
 
 ## Layout and interaction
 
-The Three.js canvas reaches every viewport edge. Floating navigation, site selection, region controls and the layer dock sit above it. A forecast prompt opens the selected plant’s 72-hour filmstrip; panning, zooming out or returning to a region hides the slider again. The map remains on current conditions while the inspector can show that plant’s forecast frame. The dark evidence drawer uses a nested frame with its own scroll area. Desktop opens with evidence visible; phones open with the map visible and a Site details button.
+The Three.js canvas reaches every viewport edge. Floating navigation, site selection, region controls and the layer dock sit above it. A forecast prompt opens the selected plant’s 72-hour filmstrip; panning, zooming out or returning to a region hides the slider again. The map remains on current conditions while the inspector can show that plant’s forecast frame. The solid dark evidence drawer has straight edges and its own scroll area. Desktop opens with evidence visible; phones open with the map visible and a Site details button.
 
 The drawer retains Overview, Conditions and Sources, including all 34 fields, risk channels, task decisions, provider health, model availability and synthetic-data labels. Its close control stays outside the scrolling contents. Closing makes hidden controls inert and returns keyboard focus to the reopen button. Reopening focuses the close control; Escape closes from inside the drawer. The selected-site summary and a new site selection also open it.
 
@@ -12,7 +12,9 @@ Portrait phones use a larger map framing and smaller unselected point markers. O
 
 ## Visual system
 
-Satoshi typography, a charcoal/olive base and muted lime controls replace the paper sidebar. Hazard colors retain their existing semantic scale. Phosphor light icons, inner frame highlights, rounded control islands and a restrained grid tie the interface to the map. Site locations and boundaries remain geographic; land extrusion is schematic.
+Satoshi typography, a charcoal/olive map and restrained sage selection rules define the interface. Hazard colors retain their existing semantic scale. Navigation sits on a baseline; regions use text and underlines. Layers form one segmented text strip, with dotted labels still distinguishing raw measurements. The camera rail and forecast controls use straight edges. The opaque evidence sheet keeps map text from showing through its contents. Site locations and boundaries remain geographic; land extrusion is schematic.
+
+The refinement references [Awwwards’ typography collection](https://www.awwwards.com/websites/typography/) and its [Terminal Industries entry](https://www.awwwards.com/sites/terminal-industries), inspected in the browser. The references inform typographic hierarchy, spacing and restrained controls; no third-party artwork or layouts are copied. Repeated pill containers, nested circular arrows and decorative metric rings were removed in response to the interface review.
 
 The national map uses deeper state extrusion and a lower viewing angle. Desktop camera framing offsets the focal area away from the evidence drawer; report pinning retains its original camera and land depth. Adaptive near-plane precision and polygon offset remain in place.
 

diff --git a/tests/README.md b/tests/README.md
@@ -14,15 +14,17 @@ Generated screenshots, traces, and reports are ignored. Do not add documentation
 
 ## Latest implementation verification
 
-The immersive full-screen atlas, source-first demo companions, providers and map depth precision were verified on October 17, 2026:
+The atlas control refinement was verified on October 17, 2026. Unit tests were skipped for this visual iteration at the user’s request; the prior operational-pipeline run passed 125 tests.
 
 | Check | Recorded result |
 | --- | --- |
-| `npm test` | 125 passed, 0 failed |
-| `npm run test:e2e` | 28 passed, 0 failed, 3.5 minutes |
+| `npm test` | Skipped for this iteration at the user’s request |
+| `npm run test:e2e` | 28 passed, 0 failed, 4.0 minutes |
 | `npm run build` | Passed through the full browser suite’s build step; bundle-size warning remains |
-| `npx tsc --noEmit` | Passed |
+| TypeScript | Passed as part of `npm run build` |
 | Lint | No lint script is configured |
+
+The full browser run reported all 28 scenarios passing, but its command wrapper returned status 143 after shutdown. An isolated rerun of `tests/e2e/immersive-atlas.spec.ts` rebuilt the app, passed in 27.5 seconds and returned exit 0.
 
 These are implementation-run results. Source-adapter fixture tests do not establish live credentials, nationwide coverage or calibrated field-safety performance. The completion command was also run against the local national catalog; its output records actual source/synthetic/N/A counts and source failures. See [provider verification boundaries](../docs/environment-providers.md) and [completion semantics](../docs/site-data-completion.md).
 

diff --git a/src/styles/README.md b/src/styles/README.md
@@ -20,4 +20,4 @@ Unknown beacons use the existing gray with a question mark; low-confidence known
 
 `evidence.css` also styles the demo gap-fill switch, synthetic reading badges and explanatory notice. Preserve the text labels so generated fields remain identifiable without relying on color.
 
-The immersive atlas theme is scoped to `.view-atlas` and `.weather-atlas`. Shared observation/source components retain their paper appearance in Site intelligence. Navigation and drawer shells use subtle inner highlights; scrolling contents avoid backdrop filters. Motion changes opacity/transform and supports reduced motion.
+The immersive atlas theme is scoped to `.view-atlas` and `.weather-atlas`. Shared observation/source components retain their paper appearance in Site intelligence. Navigation uses a single baseline; region and layer selections use underlines. The evidence drawer is opaque with straight edges. Camera controls share one rectangular rail, and task states remain plain colored text. Scrolling contents avoid backdrop filters. Motion changes opacity/transform and supports reduced motion.
